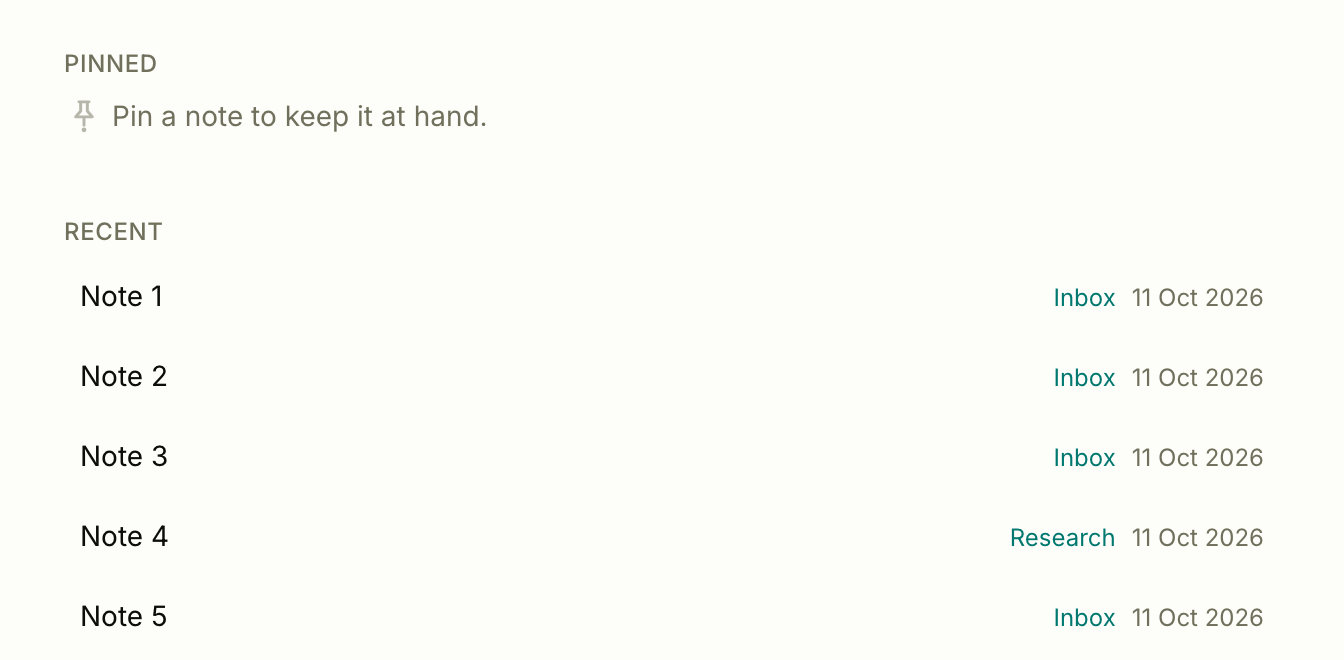
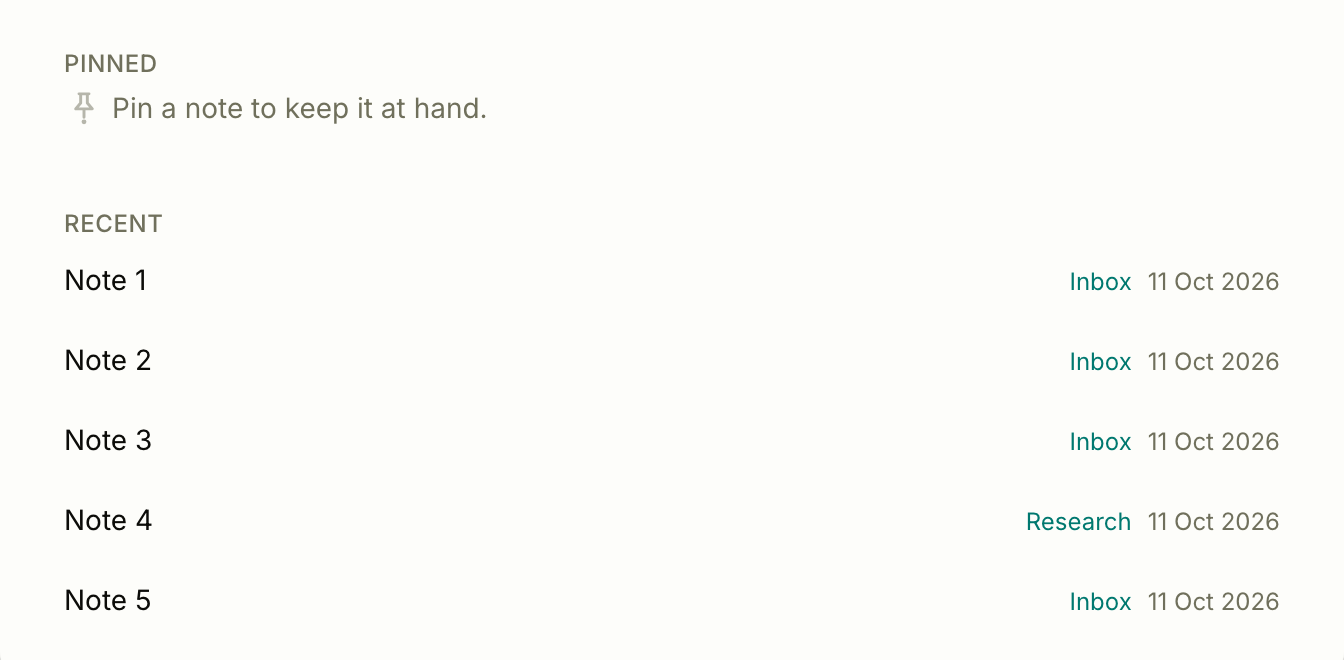
fix(today): bind the pinned and recent headings to their lists

diff --git a/src/lib/components/today/workspace/today-triage.svelte b/src/lib/components/today/workspace/today-triage.svelte
@@ -115,24 +115,35 @@
 <!-- Pinned takes a column only when it has notes; empty, it is one quiet line
      above a full-width Recent rather than half the page holding an invitation. -->
 <div class={['grid gap-x-group gap-y-section', view.pinnedNotes.length > 0 && 'lg:grid-cols-2']}>
-	<section class="flex flex-col gap-item" aria-label="Pinned notes">
+	<!-- The eyebrow binds to its list a step tighter than the rows sit to each other,
+	     so it reads as the list's label rather than its first row. -->
+	<section class="flex flex-col gap-bind" aria-label="Pinned notes">
 		<h2 class="eyebrow">Pinned</h2>
-		{#each view.pinnedNotes as note (note.id)}
-			{@render noteRow(note, true)}
+		{#if view.pinnedNotes.length > 0}
+			<!-- -mx-2 hangs the row padding outside the column so titles align with the eyebrow. -->
+			<div class="-mx-2 flex flex-col gap-item">
+				{#each view.pinnedNotes as note (note.id)}
+					{@render noteRow(note, true)}
+				{/each}
+			</div>
 		{:else}
 			<EmptyState
 				icon={Icon.Pin}
 				title="Pin a note to keep it at hand."
 				class="flex-row justify-start gap-2 py-0 text-left"
 			/>
-		{/each}
+		{/if}
 	</section>
-	<section class="flex flex-col gap-item" aria-label="Recently edited notes">
+	<section class="flex flex-col gap-bind" aria-label="Recently edited notes">
 		<h2 class="eyebrow">Recent</h2>
-		{#each view.recentNotes as note (note.id)}
-			{@render noteRow(note, false)}
+		{#if view.recentNotes.length > 0}
+			<div class="-mx-2 flex flex-col gap-item">
+				{#each view.recentNotes as note (note.id)}
+					{@render noteRow(note, false)}
+				{/each}
+			</div>
 		{:else}
 			<EmptyState icon={Icon.Document} title="Notes you touch show up here." />
-		{/each}
+		{/if}
 	</section>
 </div>
